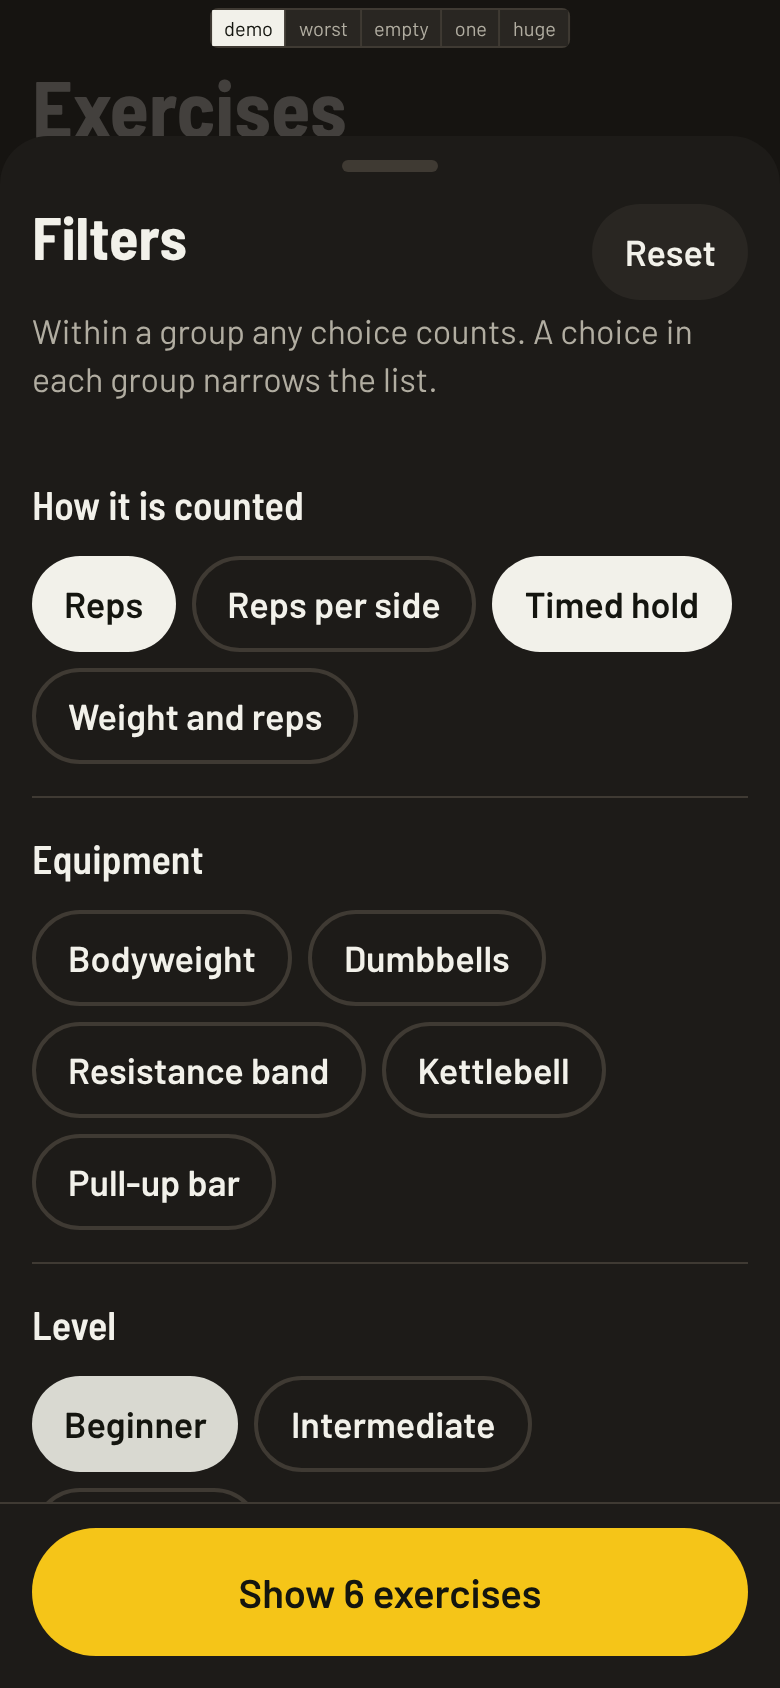
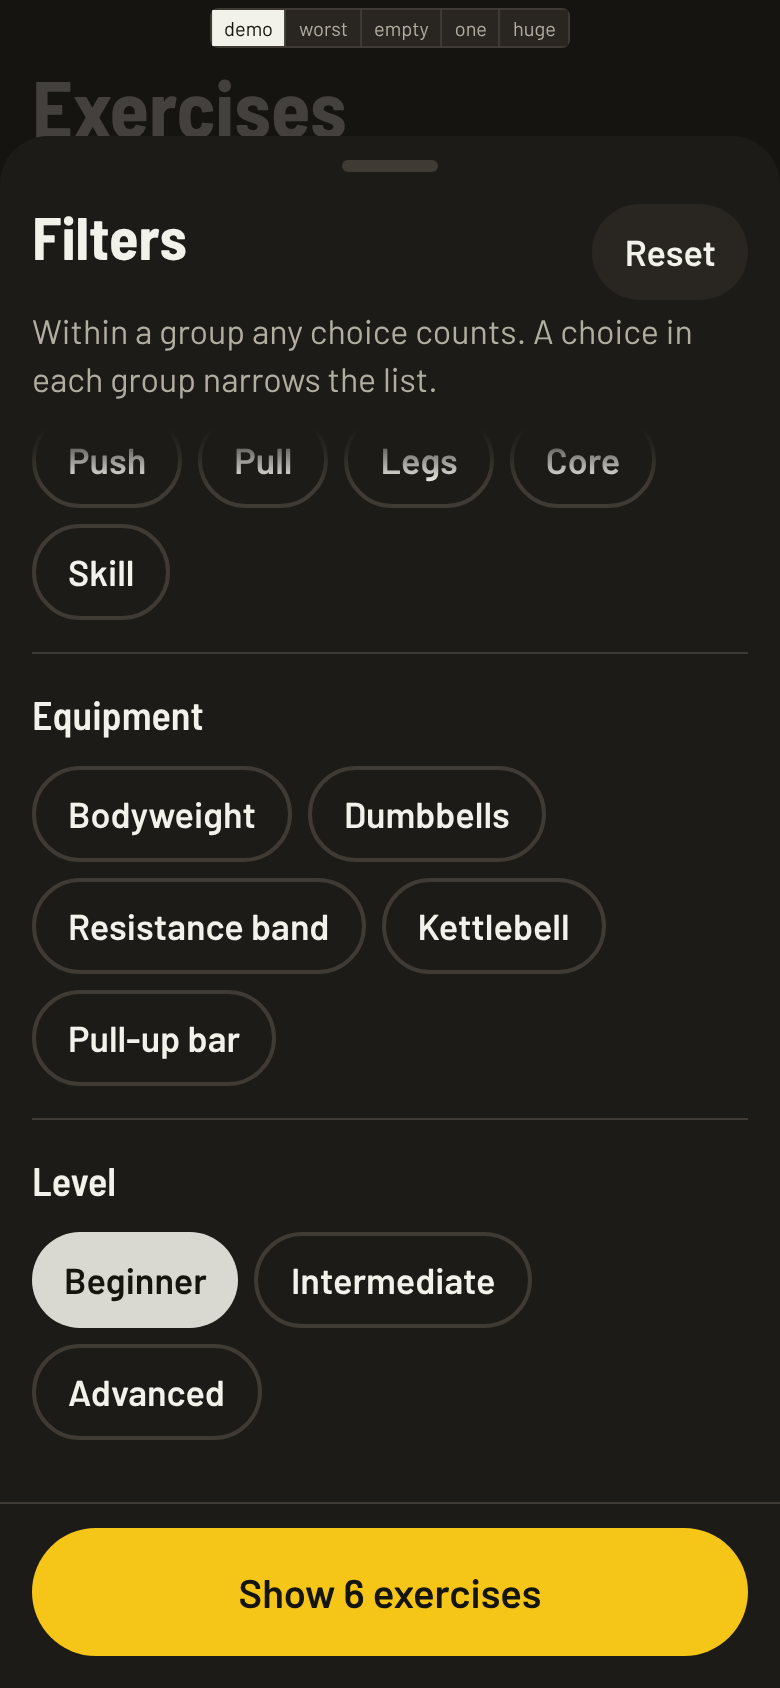
Category chips and filter, bookmarks with a save toast and a Saved filter
Claude-Session: https://claude.ai/code/session_01QSdbTS6XM65aGeFM4K1ddu

diff --git a/src/screens/ExerciseDetailScreen.tsx b/src/screens/ExerciseDetailScreen.tsx
@@ -1,5 +1,5 @@
-import { ArrowLeft } from 'lucide-react'
-import { useState, type CSSProperties } from 'react'
+import { ArrowLeft, Bookmark } from 'lucide-react'
+import { useEffect, useState, type CSSProperties } from 'react'
 import { AddExerciseSheet } from '../components/AddExerciseSheet'
 import { DemoFigure } from '../components/DemoFigure'
 import { EmptySlots } from '../components/EmptySlots'
@@ -15,6 +15,8 @@ interface ExerciseDetailScreenProps {
   plan: Exercise[]
   entries: Entry[]
   onAdd: (entry: Omit<Entry, 'id'>) => void
+  saved: boolean
+  onToggleSaved: () => void
   onBack: () => void
 }
 
@@ -41,8 +43,15 @@ function BackButton({ onBack }: { onBack: () => void }) {
   )
 }
 
-export function ExerciseDetailScreen({ exercise, plan, entries, onAdd, onBack }: ExerciseDetailScreenProps) {
+export function ExerciseDetailScreen({ exercise, plan, entries, onAdd, saved, onToggleSaved, onBack }: ExerciseDetailScreenProps) {
   const [logging, setLogging] = useState(false)
+  // The toast answers a tap on the bookmark. It is never shown just for opening the screen.
+  const [toast, setToast] = useState<string | null>(null)
+  useEffect(() => {
+    if (!toast) return
+    const t = window.setTimeout(() => setToast(null), 2200)
+    return () => window.clearTimeout(t)
+  }, [toast])
   const shell = 'mx-auto flex min-h-dvh w-full max-w-[480px] flex-col'
   const main = 'flex flex-1 flex-col gap-6 px-4 pt-[max(0.75rem,env(safe-area-inset-top))] pb-28'
 
@@ -68,7 +77,31 @@ export function ExerciseDetailScreen({ exercise, plan, entries, onAdd, onBack }:
   return (
     <div className={shell} style={{ '--tape': meta.tape } as CSSProperties} data-testid="exercise-detail">
       <main className={main}>
-        <BackButton onBack={onBack} />
+        <div className="flex items-center justify-between">
+          <BackButton onBack={onBack} />
+          <button
+            type="button"
+            className="press grid size-12 place-items-center rounded-full bg-surface-2"
+            aria-label={saved ? 'Remove from saved' : 'Save exercise'}
+            aria-pressed={saved}
+            onClick={() => {
+              onToggleSaved()
+              setToast(saved ? 'Removed from saved' : 'Saved to your exercises')
+            }}
+            data-testid="bookmark"
+          >
+            <Bookmark size={24} strokeWidth={2.5} fill={saved ? 'currentColor' : 'none'} aria-hidden="true" />
+          </button>
+        </div>
+        <div
+          className="pointer-events-none fixed inset-x-0 top-[max(0.75rem,env(safe-area-inset-top))] z-30 mx-auto flex w-full max-w-[480px] justify-center px-4"
+          role="status"
+          data-testid="save-toast"
+        >
+          {toast && (
+            <p className="m-0 rounded-full bg-ink px-5 py-3 text-lg font-semibold text-on-tape">{toast}</p>
+          )}
+        </div>
         <DemoFigure exerciseId={exercise.id} name={exercise.name} compact />
         <header className="flex flex-col gap-2">
           <h1 className="font-display m-0 text-[36px] leading-[1.05] font-bold text-balance [overflow-wrap:anywhere]">

diff --git a/tests/bookmarks.spec.ts b/tests/bookmarks.spec.ts
@@ -1,0 +1,55 @@
+import { expect, test } from '@playwright/test'
+
+test('the category chips filter the list and the row shows the category', async ({ page }) => {
+  await page.goto('/?stage=exercises')
+  await page.getByTestId('open-filters').click()
+  const sheet = page.getByRole('dialog')
+  await sheet.getByRole('button', { name: 'Core' }).click()
+  await expect(sheet.getByRole('button', { name: /Show 4 exercises/ })).toBeVisible()
+  await sheet.getByRole('button', { name: /Show 4 exercises/ }).click()
+  const rows = page.getByTestId('exercise-list').getByRole('listitem')
+  await expect(rows).toHaveCount(4)
+  await expect(rows.first()).toContainText('Core ·')
+})
+
+test('saving an exercise shows a toast only on the tap, survives a reload and can be filtered to', async ({ page }) => {
+  await page.goto('/?stage=exercises')
+  await page.getByTestId('exercise-open').first().click()
+  const toast = page.getByTestId('save-toast')
+  await expect(toast).toHaveText('')
+  const mark = page.getByTestId('bookmark')
+  await expect(mark).toHaveAttribute('aria-pressed', 'false')
+  expect((await mark.boundingBox())!.width).toBeGreaterThanOrEqual(48)
+  await mark.click()
+  await expect(toast).toHaveText('Saved to your exercises')
+  await expect(mark).toHaveAttribute('aria-pressed', 'true')
+  await expect(toast).toHaveText('', { timeout: 4000 })
+  // Coming back to the screen does not repeat the toast.
+  await page.getByTestId('detail-back').click()
+  await page.getByTestId('exercise-open').first().click()
+  await expect(toast).toHaveText('')
+  await expect(mark).toHaveAttribute('aria-pressed', 'true')
+  await page.reload()
+  await page.goto('/?stage=exercises')
+  await expect(page.getByTestId('exercise-list').getByRole('listitem').first()).toContainText('(saved)')
+  await page.getByTestId('open-filters').click()
+  await page.getByRole('dialog').getByRole('button', { name: 'Saved only' }).click()
+  await page.getByRole('dialog').getByRole('button', { name: /Show 1 exercise/ }).click()
+  await expect(page.getByTestId('exercise-list').getByRole('listitem')).toHaveCount(1)
+  await expect(page.getByTestId('filter-badge')).toHaveText('1')
+})
+
+test('removing a saved exercise says so', async ({ page }) => {
+  await page.addInitScript(() => {
+    if (sessionStorage.getItem('seeded')) return
+    sessionStorage.setItem('seeded', '1')
+    localStorage.setItem('exercise-demo:saved', JSON.stringify({ v: 1, ids: ['push-up', 5, 'x'.repeat(80)] }))
+  })
+  await page.goto('/?stage=exercises')
+  await page.getByTestId('exercise-open').first().click()
+  await expect(page.getByTestId('bookmark')).toHaveAttribute('aria-pressed', 'true')
+  await page.getByTestId('bookmark').click()
+  await expect(page.getByTestId('save-toast')).toHaveText('Removed from saved')
+  const saved = await page.evaluate(() => JSON.parse(localStorage.getItem('exercise-demo:saved')!).ids)
+  expect(saved).toEqual([])
+})

diff --git a/src/components/ExerciseRow.tsx b/src/components/ExerciseRow.tsx
@@ -1,7 +1,7 @@
-import { ChevronRight } from 'lucide-react'
+import { Bookmark, ChevronRight } from 'lucide-react'
 import type { CSSProperties } from 'react'
 import type { Exercise } from '../types'
-import { EQUIPMENT_LABELS, LEVEL_LABELS } from '../lib/library'
+import { CATEGORY_LABELS, EQUIPMENT_LABELS, LEVEL_LABELS } from '../lib/library'
 import { TYPE_META, rowSummary } from '../lib/tracking'
 
 interface ExerciseRowProps {
@@ -14,10 +14,12 @@ interface ExerciseRowProps {
   onOpen?: (id: string) => void
   /** Also show the equipment and level (the library list). */
   showAttributes?: boolean
+  /** The person has saved this exercise. */
+  saved?: boolean
 }
 
 /** One exercise as a flat row: a slanted slot, its name, its type and its target. */
-export function ExerciseRow({ exercise, keyed = false, clamp = false, onOpen, showAttributes = false }: ExerciseRowProps) {
+export function ExerciseRow({ exercise, keyed = false, clamp = false, onOpen, showAttributes = false, saved = false }: ExerciseRowProps) {
   const meta = TYPE_META[exercise.trackingType]
   const inner = (
     <>
@@ -31,12 +33,19 @@ export function ExerciseRow({ exercise, keyed = false, clamp = false, onOpen, sh
           title={clamp ? exercise.name : undefined}
         >
           {exercise.name}
+          {saved && (
+            <>
+              <Bookmark size={18} className="ml-2 inline-block align-[-2px] text-muted" fill="currentColor" aria-hidden="true" />
+              <span className="sr-only"> (saved)</span>
+            </>
+          )}
         </span>
         <span className="text-[17px] text-pretty text-muted">
           {meta.label} · {rowSummary(exercise)}
         </span>
         {showAttributes && exercise.equipment && exercise.level && (
           <span className="text-[15px] text-muted">
+            {exercise.category ? `${CATEGORY_LABELS[exercise.category]} · ` : ''}
             {EQUIPMENT_LABELS[exercise.equipment]} · {LEVEL_LABELS[exercise.level]}
           </span>
         )}

diff --git a/src/App.tsx b/src/App.tsx
@@ -3,6 +3,7 @@ import { DataToggle } from './components/DataToggle'
 import { library, session } from './data/fixtures'
 import type { Entry } from './entries'
 import { loadChosen, programmeById, progressFor, saveChosen, type Chosen } from './lib/programme'
+import { loadSaved, saveSaved } from './lib/saved'
 import { loadLimits, saveLimits } from './lib/limits'
 import { loadEntries, saveEntries, ENTRIES_KEY } from './lib/storage'
 import { EMPTY_ANSWERS, type Answers } from './onboarding'
@@ -51,6 +52,13 @@ function Screen() {
   }
   const [answers, setAnswers] = useState<Answers>(() => ({ ...EMPTY_ANSWERS, limits: loadLimits() }))
   const [entries, setEntries] = useState<Entry[]>(loadEntries)
+  const [savedIds, setSavedIds] = useState<string[]>(loadSaved)
+  const toggleSaved = (id: string) =>
+    setSavedIds((list) => {
+      const next = list.includes(id) ? list.filter((x) => x !== id) : [...list, id]
+      saveSaved(next)
+      return next
+    })
   const [saveFailed, setSaveFailed] = useState(false)
   const [chosen, setChosen] = useState<Chosen | null>(loadChosen)
   const chosenProgramme = programmeById(chosen?.id)
@@ -158,7 +166,7 @@ function Screen() {
         />
       )}
       {stage === 'exercises' && (
-        <ExercisesScreen exercises={library} limits={answers.limits} onStart={() => setStage('setup')} onOpen={openExercise('exercises')} />
+        <ExercisesScreen exercises={library} limits={answers.limits} savedIds={savedIds} onStart={() => setStage('setup')} onOpen={openExercise('exercises')} />
       )}
       {stage === 'exercise' && (
         <ExerciseDetailScreen
@@ -166,6 +174,8 @@ function Screen() {
           plan={session.exercises}
           entries={entries}
           onAdd={addEntry}
+          saved={savedIds.includes(detailId)}
+          onToggleSaved={() => toggleSaved(detailId)}
           onBack={() => setStage(detailFrom)}
         />
       )}

diff --git a/src/lib/library.ts b/src/lib/library.ts
@@ -1,4 +1,4 @@
-import type { EquipmentId, Exercise, LevelId, TrackingType } from '../types'
+import type { CategoryId, EquipmentId, Exercise, LevelId, TrackingType } from '../types'
 import { TYPE_META } from './tracking'
 
 export const EQUIPMENT_LABELS: Record<EquipmentId, string> = {
@@ -14,18 +14,29 @@ export const LEVEL_LABELS: Record<LevelId, string> = {
   advanced: 'Advanced',
 }
 
+export const CATEGORY_LABELS: Record<CategoryId, string> = {
+  push: 'Push',
+  pull: 'Pull',
+  legs: 'Legs',
+  core: 'Core',
+  skill: 'Skill',
+}
+
 export interface Filters {
   query: string
   types: TrackingType[]
   equipment: EquipmentId[]
   levels: LevelId[]
+  categories: CategoryId[]
+  /** Only exercises the person has saved. */
+  saved: boolean
 }
 
-export const NO_FILTERS: Filters = { query: '', types: [], equipment: [], levels: [] }
+export const NO_FILTERS: Filters = { query: '', types: [], equipment: [], levels: [], categories: [], saved: false }
 
 /** How many filter groups have a choice made. The search text is not counted: it has its own field. */
 export function activeFilterCount(f: Filters): number {
-  return f.types.length + f.equipment.length + f.levels.length
+  return f.types.length + f.equipment.length + f.levels.length + f.categories.length + (f.saved ? 1 : 0)
 }
 
 export function hasAnyFilter(f: Filters): boolean {
@@ -48,6 +59,7 @@ export function matches(e: Exercise, f: Filters): boolean {
   }
   if (f.types.length && !f.types.includes(e.trackingType)) return false
   if (f.equipment.length && !(e.equipment && f.equipment.includes(e.equipment))) return false
+  if (f.categories.length && !(e.category && f.categories.includes(e.category))) return false
   if (f.levels.length && !(e.level && f.levels.includes(e.level))) return false
   return true
 }

diff --git a/src/screens/ExercisesScreen.tsx b/src/screens/ExercisesScreen.tsx
@@ -12,17 +12,22 @@ interface ExercisesScreenProps {
   exercises: Exercise[]
   /** Limit ids from set up. Exercises that clash with them are hidden unless the person asks. */
   limits: string[]
+  /** Ids of saved exercises. */
+  savedIds: string[]
   onStart: () => void
   onOpen: (id: string) => void
 }
 
-export function ExercisesScreen({ exercises: all, limits, onStart, onOpen }: ExercisesScreenProps) {
+export function ExercisesScreen({ exercises: all, limits, savedIds, onStart, onOpen }: ExercisesScreenProps) {
   const [showAll, setShowAll] = useState(false)
   const exercises = useMemo(() => (showAll ? all : all.filter((e) => fitsLimits(e, limits))), [all, limits, showAll])
   const hidden = all.length - all.filter((e) => fitsLimits(e, limits)).length
   const [filters, setFilters] = useState<Filters>(NO_FILTERS)
   const [sheet, setSheet] = useState(false)
-  const shown = useMemo(() => filterExercises(exercises, filters), [exercises, filters])
+  const shown = useMemo(
+    () => filterExercises(exercises, filters).filter((e) => !filters.saved || savedIds.includes(e.id)),
+    [exercises, filters, savedIds],
+  )
   const total = exercises.length
   const active = activeFilterCount(filters)
   const filtered = hasAnyFilter(filters)
@@ -121,7 +126,7 @@ export function ExercisesScreen({ exercises: all, limits, onStart, onOpen }: Exe
             ) : (
               <ul className="m-0 flex list-none flex-col p-0" data-testid="exercise-list">
                 {shown.map((e) => (
-                  <ExerciseRow key={e.id} exercise={e} keyed showAttributes onOpen={onOpen} />
+                  <ExerciseRow key={e.id} exercise={e} keyed showAttributes saved={savedIds.includes(e.id)} onOpen={onOpen} />
                 ))}
               </ul>
             )}

diff --git a/src/components/FilterSheet.tsx b/src/components/FilterSheet.tsx
@@ -1,5 +1,5 @@
-import type { EquipmentId, LevelId, TrackingType } from '../types'
-import { EQUIPMENT_LABELS, LEVEL_LABELS, NO_FILTERS, activeFilterCount, type Filters } from '../lib/library'
+import type { CategoryId, EquipmentId, LevelId, TrackingType } from '../types'
+import { CATEGORY_LABELS, EQUIPMENT_LABELS, LEVEL_LABELS, NO_FILTERS, activeFilterCount, type Filters } from '../lib/library'
 import { TYPE_META } from '../lib/tracking'
 import { AnswerSheet } from './AnswerSheet'
 
@@ -12,6 +12,7 @@ interface FilterSheetProps {
   count: number
 }
 
+const CATEGORIES = Object.keys(CATEGORY_LABELS) as CategoryId[]
 const TYPES = Object.keys(TYPE_META) as TrackingType[]
 const EQUIPMENT = Object.keys(EQUIPMENT_LABELS) as EquipmentId[]
 const LEVELS = Object.keys(LEVEL_LABELS) as LevelId[]
@@ -74,6 +75,19 @@ export function FilterSheet({ open, onOpenChange, filters, onChange, count }: Fi
               label={TYPE_META[t].label}
               on={filters.types.includes(t)}
               onClick={() => onChange({ ...filters, types: toggle(filters.types, t) })}
+            />
+          ))}
+        </Group>
+        <Group title="Saved">
+          <Chip label="Saved only" on={filters.saved} onClick={() => onChange({ ...filters, saved: !filters.saved })} />
+        </Group>
+        <Group title="Category">
+          {CATEGORIES.map((c) => (
+            <Chip
+              key={c}
+              label={CATEGORY_LABELS[c]}
+              on={filters.categories.includes(c)}
+              onClick={() => onChange({ ...filters, categories: toggle(filters.categories, c) })}
             />
           ))}
         </Group>

diff --git a/src/lib/saved.ts b/src/lib/saved.ts
@@ -1,0 +1,23 @@
+export const SAVED_KEY = 'exercise-demo:saved'
+const MAX_SAVED = 100
+
+/** The saved exercise ids. Anything that is not a short string is dropped. */
+export function loadSaved(): string[] {
+  try {
+    const raw = window.localStorage.getItem(SAVED_KEY)
+    if (!raw) return []
+    const d = JSON.parse(raw) as { v?: number; ids?: unknown }
+    if (d?.v !== 1 || !Array.isArray(d.ids)) return []
+    return [...new Set(d.ids.filter((x): x is string => typeof x === 'string' && x.length > 0 && x.length <= 40))].slice(0, MAX_SAVED)
+  } catch {
+    return []
+  }
+}
+
+export function saveSaved(ids: string[]): void {
+  try {
+    window.localStorage.setItem(SAVED_KEY, JSON.stringify({ v: 1, ids }))
+  } catch {
+    /* Not remembered. */
+  }
+}

diff --git a/src/types.ts b/src/types.ts
@@ -10,6 +10,7 @@ export interface SetValues {
 
 export type EquipmentId = 'none' | 'dumbbells' | 'band' | 'kettlebell' | 'pullup'
 export type LevelId = 'beginner' | 'intermediate' | 'advanced'
+export type CategoryId = 'push' | 'pull' | 'legs' | 'core' | 'skill'
 
 /** What an exercise asks of the room: noise or impact, floor space, or running. Placeholder tags. */
 export type Demand = 'loud' | 'space' | 'running'
@@ -24,6 +25,7 @@ export interface Exercise {
   cue: string
   equipment?: EquipmentId
   level?: LevelId
+  category?: CategoryId
   /** Placeholder muscles worked, in sentence case. */
   muscles?: string[]
   demands?: Demand[]

diff --git a/tests/exercises-filter.spec.ts b/tests/exercises-filter.spec.ts
@@ -21,7 +21,7 @@ test('the whole library shows with a count, a search box and a Filters button', 
   await expect(search(page)).toBeVisible()
   await expect(page.getByTestId('open-filters')).toHaveAccessibleName('Filters')
   await expect(page.getByTestId('filter-badge')).toHaveCount(0)
-  await expect(rows(page).first()).toContainText('Bodyweight · Beginner')
+  await expect(rows(page).first()).toContainText('Push · Bodyweight · Beginner')
   await page.screenshot({ path: 'screenshots/exercises-library.png' })
 })
 

diff --git a/docs/overnight-queue.md b/docs/overnight-queue.md
@@ -20,8 +20,8 @@ Rules: one commit per feature, push after each, tests after each feature, one re
 - [ ] Batch C review and fixes
 
 ## Batch D: Exercise list
-- [ ] Category chips on exercise rows (row 32)
-- [ ] Bookmarks with a save toast that fires only on the action (rows 30, 39)
+- [x] Category chips on exercise rows (row 32)
+- [x] Bookmarks with a save toast that fires only on the action (rows 30, 39)
 - [ ] Thumbnails: drawn figure where one exists, marked placeholder tile otherwise (row 41)
 - [ ] Batch D review and fixes
 
